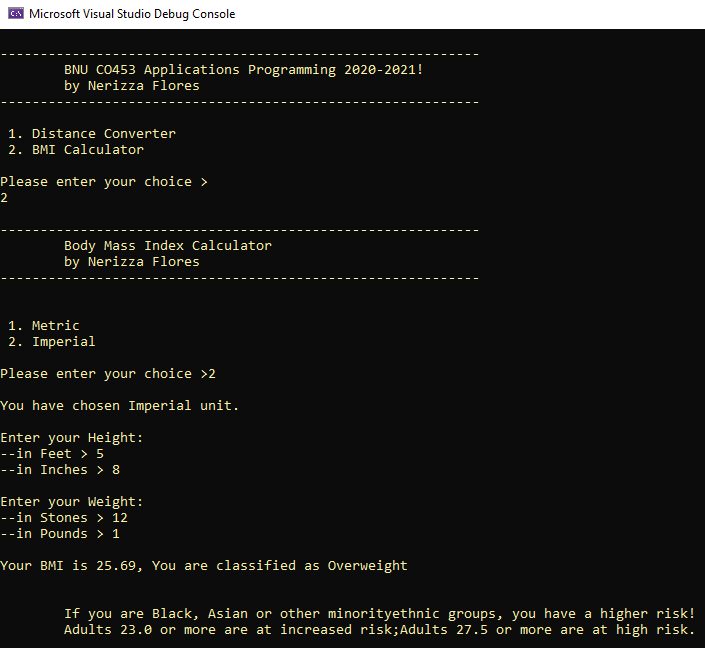
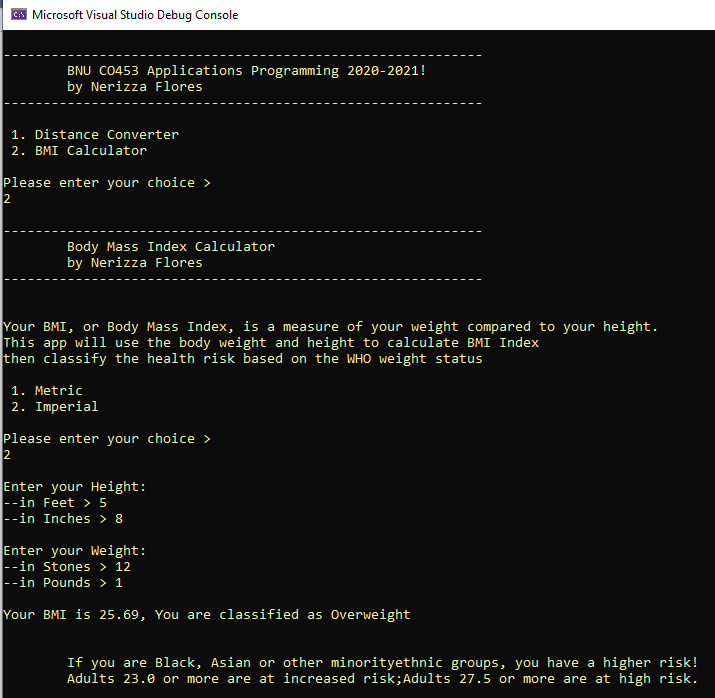
Added images

diff --git a/ConsoleAppProject/App02/BMI.cs b/ConsoleAppProject/App02/BMI.cs
@@ -23,6 +23,7 @@ namespace ConsoleAppProject.App02
         public int Inch { get; set; }
         public double Centimetres { get; set; }
         public double Kilograms { get; set; }
+
         public double Metres;
 
         //For conversion
@@ -45,6 +46,9 @@ namespace ConsoleAppProject.App02
         public void ConvertBmi()
         {
             ConsoleHelper.OutputHeading("Body Mass Index Calculator");
+            Console.WriteLine("\nYour BMI, or Body Mass Index, is a measure of your weight compared to your height. \n" +
+                "This app will use the body weight and height to calculate BMI Index\n" +
+                "then classify the health risk based on the WHO weight status\n");
             SelectUnit("Please enter your choice > ");
             Console.WriteLine(OutputBmiCategory());
             Console.WriteLine(OutputBame());

diff --git a/ConsoleAppProject/ConsoleHelper.cs b/ConsoleAppProject/ConsoleHelper.cs
@@ -6,6 +6,7 @@ namespace ConsoleAppProject
 {
     public static class ConsoleHelper
     {
+
         public static void OutputHeading(string title)
         {
             Console.WriteLine();
